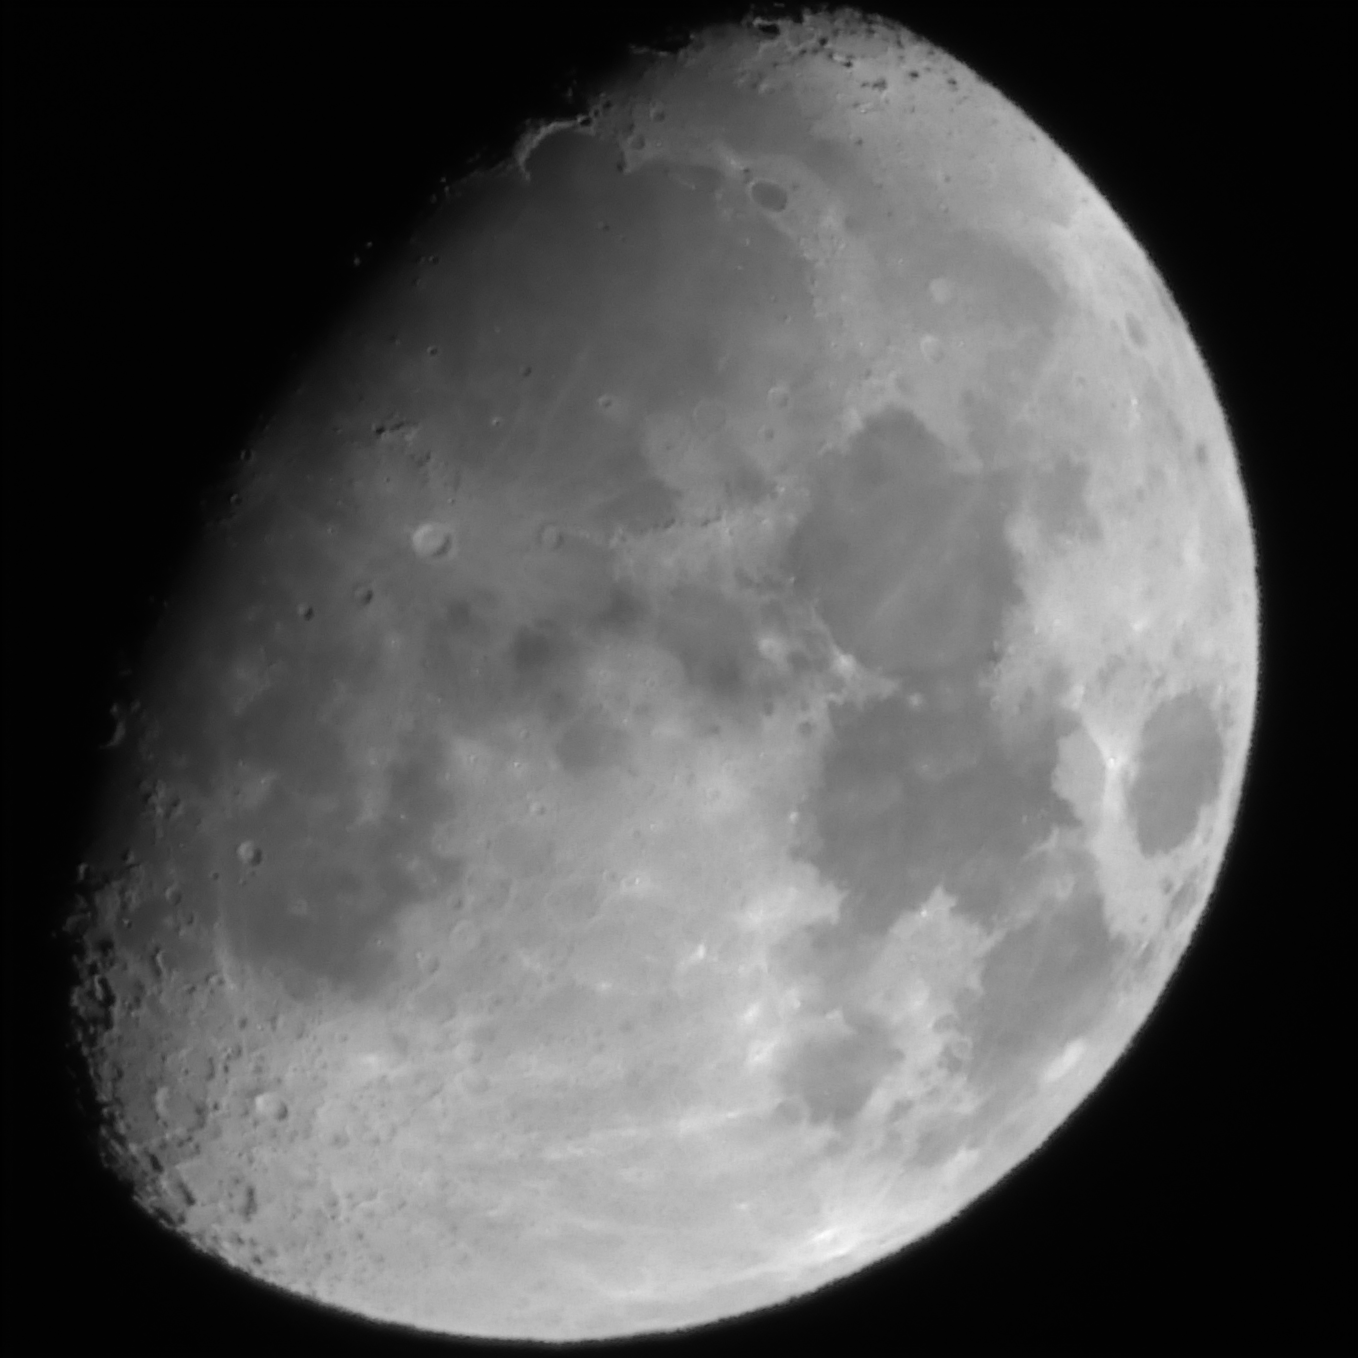
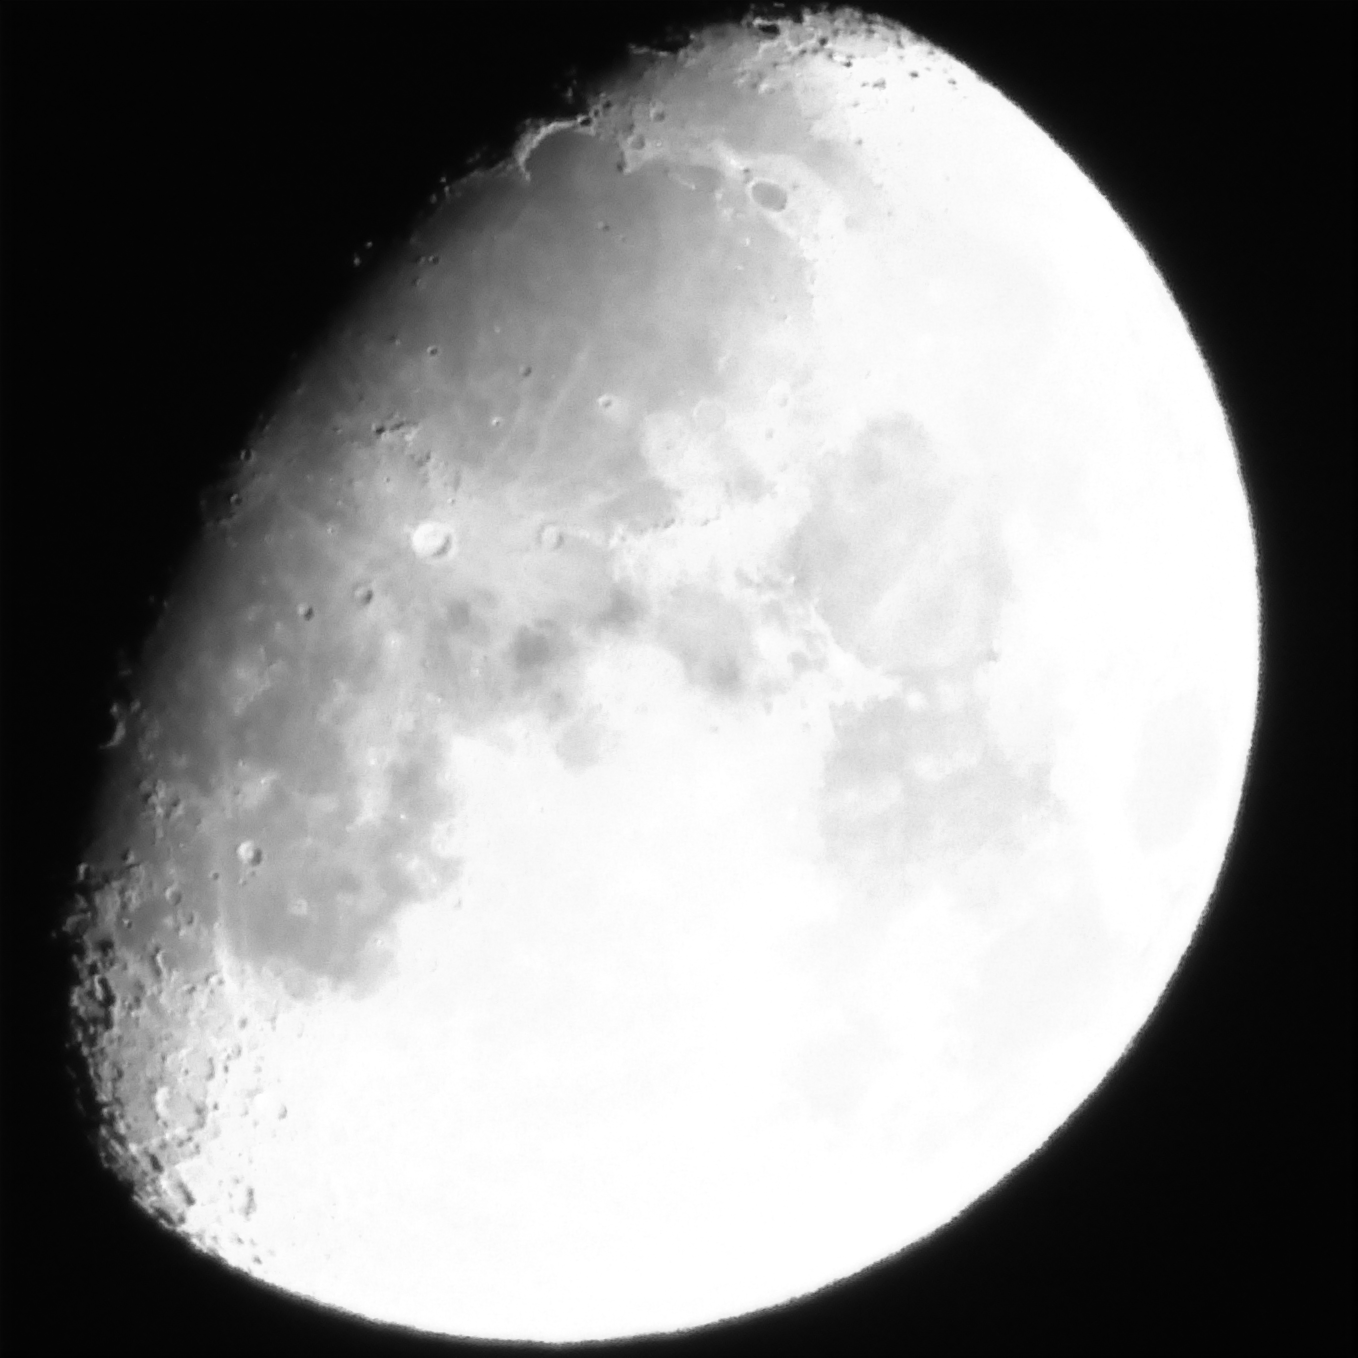
few changes

diff --git a/src/models.py b/src/models.py
@@ -7,6 +7,7 @@ import cv2
 import gc
 from utils import progress
 from skimage import color
+from config import DNCNN_MODEL_PATH
 
 class DnCNN(nn.Module):
     def __init__(self, channels, num_of_layers=17):
@@ -28,7 +29,7 @@ class DnCNN(nn.Module):
         with torch.no_grad():
             return x - self.dncnn(x)
 
-def model_init(model_path = './models/DnCNN-PyTorch/logs/DnCNN-S-25/net.pth'):
+def model_init(model_path = DNCNN_MODEL_PATH):
     model = DnCNN(channels=1, num_of_layers=17)
     state_dict = torch.load(model_path, map_location=torch.device('cpu'), weights_only=True)
     
@@ -173,29 +174,22 @@ def unsharp_mask(images, model, strength):
     sobel_masks = sobel_images(images)
 
     merged_images = []
-    i = 0
+
     for image, blurred_image, sobel_mask in zip(images, blurred_images, sobel_masks):
         image = image.astype(np.float32)
 
         # Adjust the strength based on the Sobel mask
         sharp_component = cv2.multiply(image, 1 + strength * sobel_mask)
         sharp_component = normalize(sharp_component)
-        
         blurred_component = cv2.multiply(blurred_image, 1 - strength * sobel_mask)
         blurred_component = normalize(blurred_component)
-
         # manage too sharpened pixels
         sharp_component = np.clip(sharp_component, 0, 1)
         blurred_component = np.clip(blurred_component, 0, 1)
 
-
-        if i == 0:
-            # normalize 0-255
-            save_image(to_8bit(sharp_component), './images/sharpened/sharp')
-            save_image(to_8bit(blurred_component), './images/blurred/blur')
-            i += 1
-
-        merged_image = to_16bit(np.clip(cv2.add(sharp_component, blurred_component, 0, 1)))
+        # Merge the components
+        merged_image = cv2.add(sharp_component, blurred_component)
+        merged_image = to_16bit(merged_image)
         merged_images.append(merged_image)
 
     del blurred_images, sobel_masks, sharp_component, blurred_component

diff --git a/src/main.py b/src/main.py
@@ -41,7 +41,7 @@ def image_stacking_2(images, features_alg = 'orb', average_alg = 'composite', st
     print()
 
     preprocessed = preprocess_images(images, algo = 'orb', align = True, crop = True, grayscale = False, unsharp = False)
-    for strength in [1, 2, 3, 4, 5]:
+    for strength in [5, 7, 10]:
         print(f"unsharping with strength: {strength}")
         unsharped = preprocess_images(preprocessed, align = False, crop = False, grayscale = True, unsharp = True, strength = strength, calibrate = False)
 
@@ -52,12 +52,6 @@ def image_stacking_2(images, features_alg = 'orb', average_alg = 'composite', st
             image = median_stack(unsharped)
         elif stacking_alg == 'sigma clipping':
             image = sigma_clipping(unsharped)
-
-        # denoise the image
-        #if denoise:
-        #device = torch.device('cuda' if torch.cuda.is_available() else 'cpu')
-        #model = model_init()
-        #image = perform_denoising(model10, image, device)
 
         # Save the image
         path = config.output_folder + f'/{features_alg}_{strength}_{stacking_alg}' 
@@ -81,14 +75,10 @@ def canny_images(images, low_threshold=150, high_threshold=255):
         return edges
 
 def main():
-    #config_init()
-    #images = read_images(config.input_folder)
 
-    #image_stacking(images, denoise = False, features_alg = 'orb', stacking_alg = 'median', grayscale = True)
-    #image_stacking(images, denoise = False, features_alg = 'orb', stacking_alg = 'sigma clipping', grayscale = True)
-    #image_stacking(images, denoise = False, features_alg = 'orb', stacking_alg = 'weighted average', average_alg = 'composite', grayscale = True)
+    image_stacking_2(read_images(config.input_folder), stacking_alg = 'sigma clipping')
+    image_stacking_2(read_images(config.input_folder), stacking_alg = 'weighted average')
 
-    image_stacking_2(read_images(config.input_folder))
 
 if __name__ == '__main__':
     main()

diff --git a/src/preprocess.py b/src/preprocess.py
@@ -255,7 +255,7 @@ def preprocess_images(images,           align       = True,
     #save_images(imgs, "./images/calibrated", name = 'calibrated')
 
 
-    #contrast_imgs = [adjust_brightness_contrast(image, brightness=0, contrast=0) for image in imgs]
+    contrast_imgs = [adjust_brightness_contrast(image, brightness=0, contrast=10) for image in imgs]
     #gamma_imgs    = [adjust_gamma(image, gamma=0.7) for image in contrast_imgs]
 
     #imgs = gamma_imgs

diff --git a/src/config.py b/src/config.py
@@ -1,8 +1,8 @@
-MAX_IMG = 2
+MAX_IMG = 50
 COLAB = False
 DEBUG = 1 # 0: no debug, 1: print debug, 2: very verbose debug
 IS_MOON = True
-DNCNN_MODEL_PATH = './dncnn/logs/DnCNN-S-15/net.pth'
+DNCNN_MODEL_PATH = './dncnn/logs/DnCNN-S-25/net.pth'
 
 input_folder = './images/lights'
 bias_folder = './images/bias'
